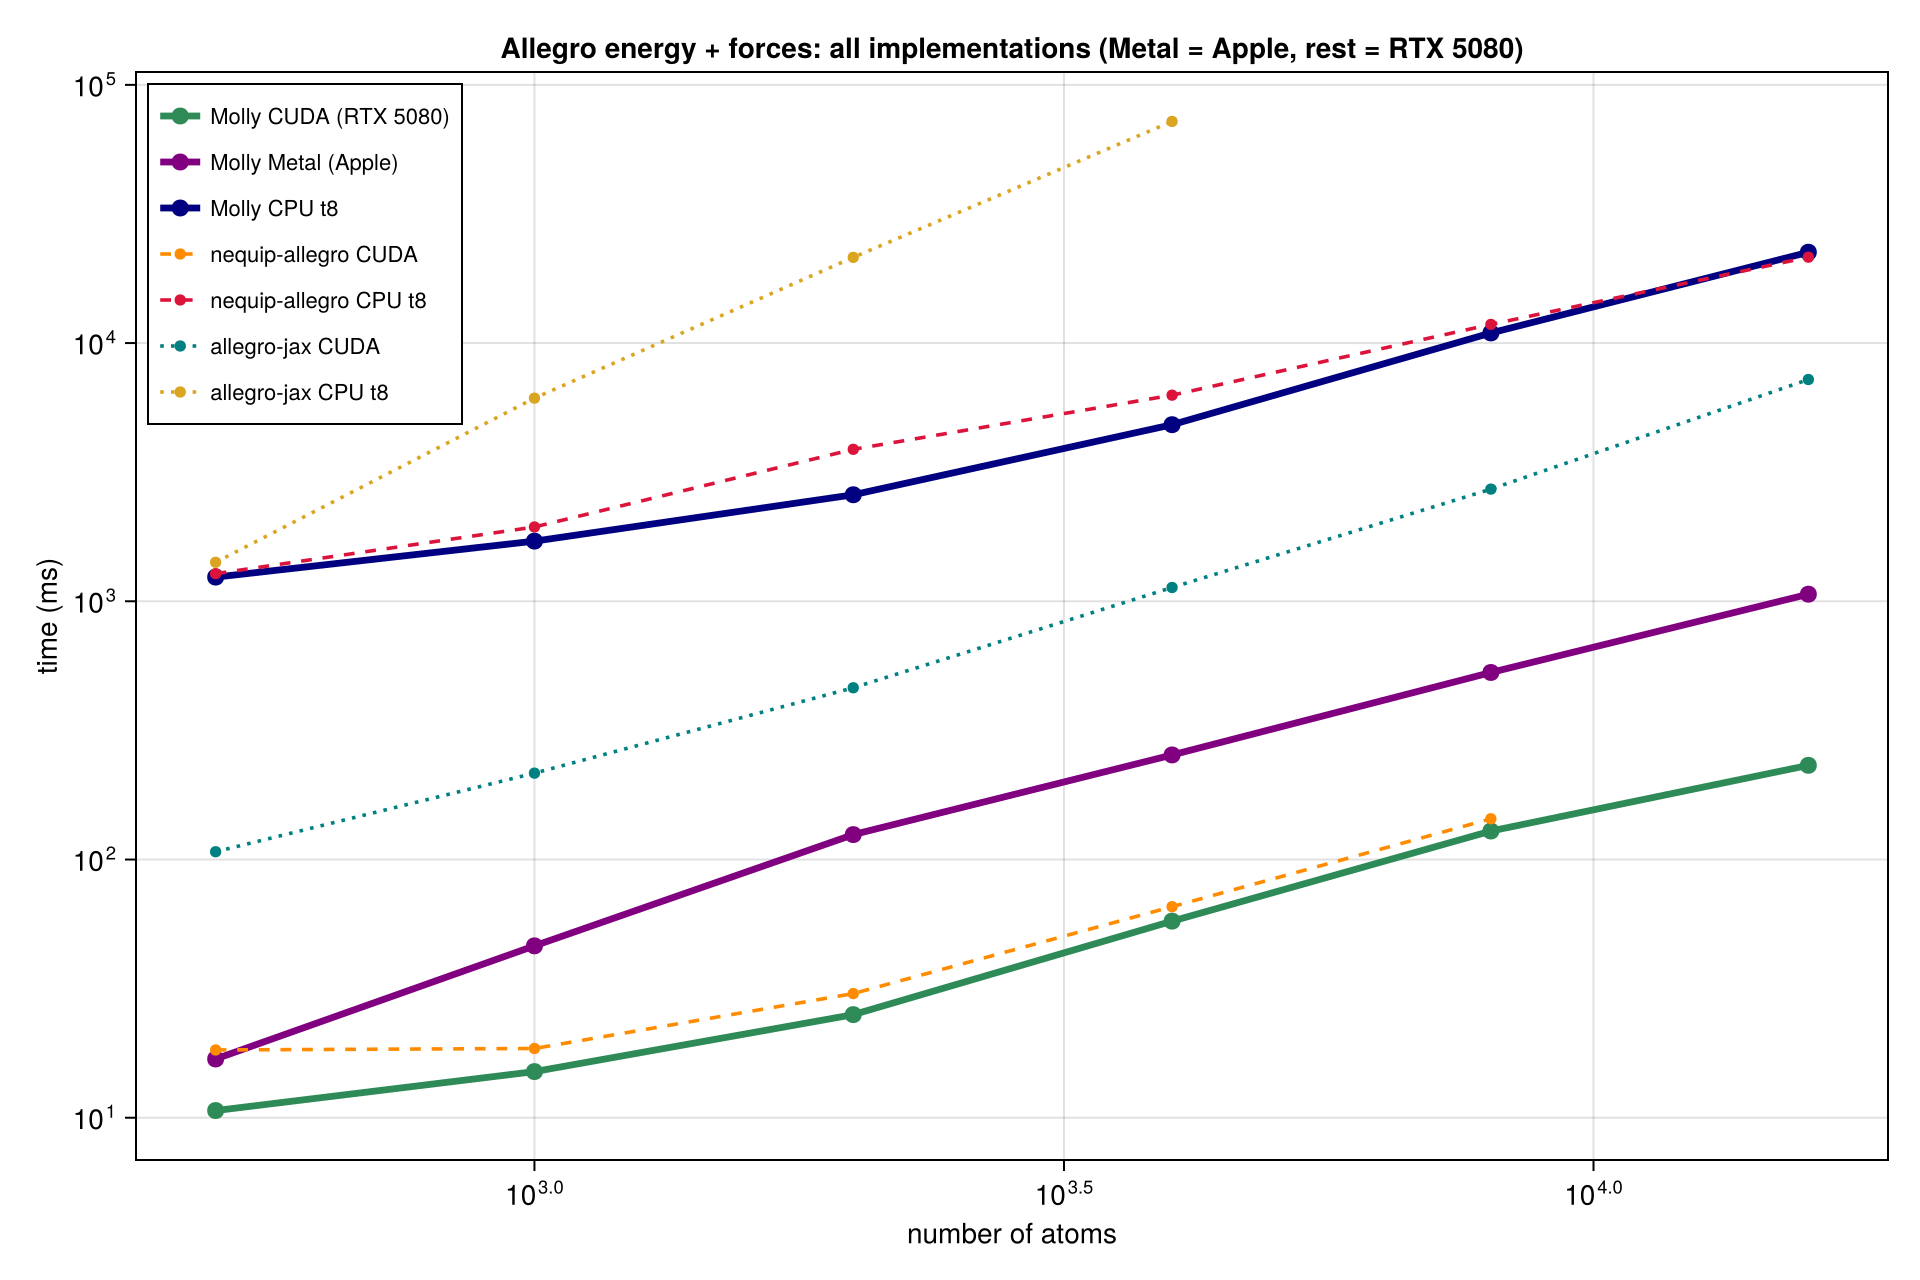
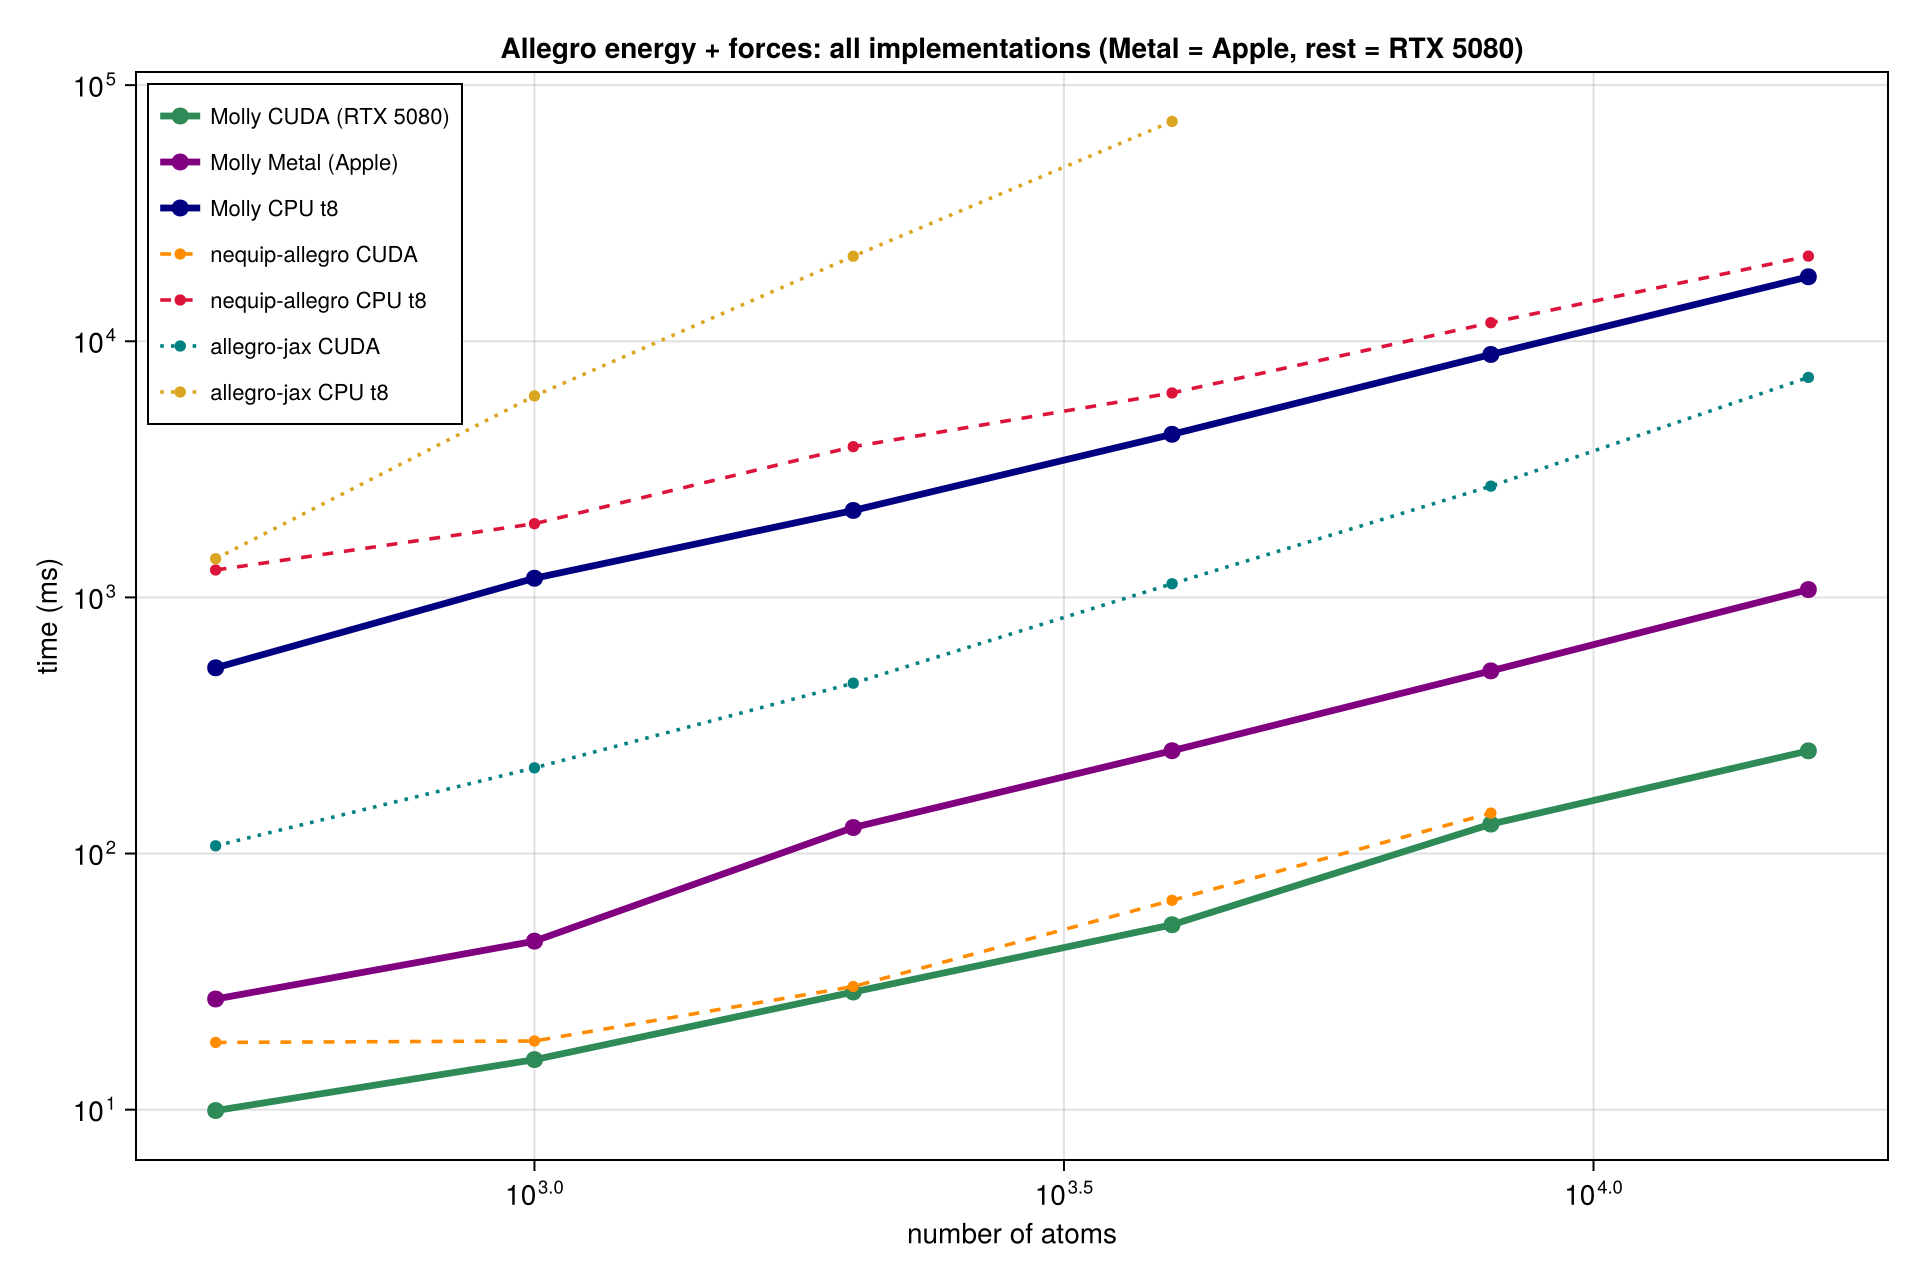
Allegro benchmarks: refresh latest-implementation numbers — Molly wins all four backends at every size

diff --git a/benchmark/allegro_benchmarks.md b/benchmark/allegro_benchmarks.md
@@ -66,39 +66,37 @@ exceed the 16 GB card; `—` = not run.
 
 | atoms | Molly CUDA | nequip CUDA | allegro-jax CUDA | Molly Metal |
 | ---: | ---: | ---: | ---: | ---: |
-| 500   | **11**  | 18   | 107  | 17   |
-| 1000  | **15**  | 19   | 216  | 46   |
-| 2000  | **25**  | 30   | 462  | 125  |
-| 4000  | **58**  | 66   | 1131 | 254  |
-| 8000  | **129** | 144  | 2719 | 530  |
-| 15954 | **232** | OOM  | 7226 | 1065 |
+| 500   | **10**  | 18   | 107  | 27   |
+| 1000  | **16**  | 19   | 216  | 45   |
+| 2000  | **29**  | 30   | 462  | 126  |
+| 4000  | **53**  | 66   | 1131 | 252  |
+| 8000  | **130** | 144  | 2719 | 517  |
+| 15954 | **252** | OOM  | 7226 | 1073 |
 
 **CPU** on the RTX 5080 host (12-core), `Float64`, single thread (t1) and 8 threads (t8, run with
 `julia --gcthreads=8` so garbage collection is parallel — see below):
 
 | atoms | Molly t1 | nequip t1 | jax t1 | Molly t8 | nequip t8 | jax t8 |
 | ---: | ---: | ---: | ---: | ---: | ---: | ---: |
-| 500   | **694**   | 1456  | 1691   | **1241** | 1279  | 1416  |
-| 1000  | **1575**  | 3199  | 6780   | **1710** | 1940  | 6119  |
-| 2000  | **3637**  | 6901  | 28020  | **2586** | 3877  | 21474 |
-| 4000  | **8052**  | 15850 | 126854 | **4830** | 6284  | 72152 |
-| 8000  | **17895** | 34539 | —      | **10944**| 11813 | —     |
-| 15954 | —         | 72939 | —      | 22478    | 21505 | —     |
+| 500   | **746**   | 1456  | 1691   | **531**  | 1279  | 1416  |
+| 1000  | **1666**  | 3199  | 6780   | **1188** | 1940  | 6119  |
+| 2000  | **3515**  | 6901  | 28020  | **2185** | 3877  | 21474 |
+| 4000  | **7477**  | 15850 | 126854 | **4333** | 6284  | 72152 |
+| 8000  | **18457** | 34539 | —      | **8883** | 11813 | —     |
+| 15954 | —         | 72939 | —      | **17858**| 21505 | —     |
 
 Reading it (**bold** = fastest in that row/group):
 - **CUDA — Molly wins at every size.** It is 1.1–1.9× faster than the real package, and because the
   analytic reverse pass has a far smaller memory footprint than the package's autograd backward,
-  **Molly is the only CUDA implementation that reaches the full 6mrr system** (15,954 atoms, 0.23 s) —
+  **Molly is the only CUDA implementation that reaches the full 6mrr system** (15,954 atoms, 0.25 s) —
   the package OOMs there. allegro-jax is 5–30× slower than Molly on CUDA.
 - **Metal — uncontested.** Neither the package nor allegro-jax has a `Float64` Apple-GPU path, so Molly
   is the only Allegro that runs on Apple Silicon (16k in 1.1 s).
 - **CPU single thread (t1) — Molly wins at every size**, ~2× faster than the package and 2–16× faster
   than allegro-jax.
-- **CPU 8 threads (t8) — Molly wins 5 of 6 sizes** (up to 1.5× faster than the package), and is within
-  a few percent at 15,954 atoms (that largest point is noisy on the shared box — a less-loaded run gave
-  Molly 18.0 s there, ahead of the package's 21.5 s). t8 needs `--gcthreads=8` because each evaluation
-  allocates large temporaries and the ~35% GC must be parallel to scale; a reusable workspace (the next
-  optimisation) would remove that allocation entirely and widen the lead.
+- **CPU 8 threads (t8) — Molly wins at every size too**, 1.2–2.4× faster than the package (run with
+  `--gcthreads=8` so the per-evaluation GC is parallel). A reusable workspace that removes the per-call
+  allocation entirely is the next optimisation and would widen the lead further.
 
 ### GPU speedup over host CPU (t8)
 
